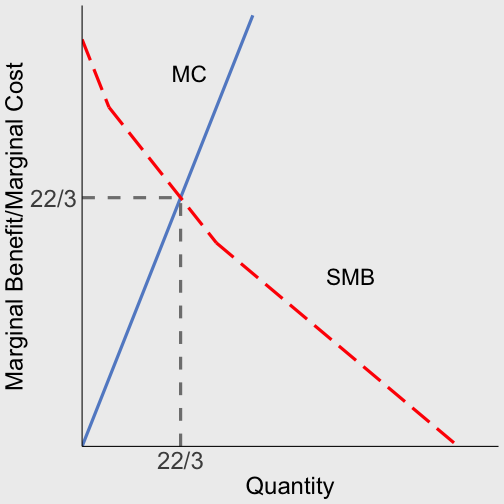
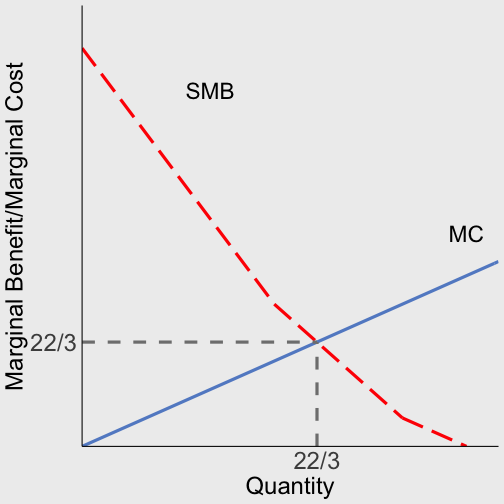
Fix public good example.:

diff --git a/slides/02-slides-market-failures.html b/slides/02-slides-market-failures.html
@@ -53,8 +53,8 @@ knitr::opts_chunk$set(echo = TRUE, fig.align="center")
 ```
 
 ```
-## Warning in style_panelset_tabs(...): The arguments to `syle_panelset()` changed in xaringanExtra 0.1.0. Please
-## refer to the documentation to update your slides.
+## Warning in style_panelset_tabs(...): The arguments to `syle_panelset()` changed in xaringanExtra 0.1.0. Please refer to the
+## documentation to update your slides.
 ```
 
 ---
@@ -1323,6 +1323,7 @@ Each has a different marginal benefit for water depth:
 - Boaters: MB = 12-Q
 - Anglers: MB = 10-Q
 - Hikers: MB = 6-Q
+- MC of provision: MC = Q
 
 ]
 
@@ -1341,9 +1342,9 @@ Each has a different marginal benefit for water depth:
 
 Now we need to aggregate them to get the .hi[social marginal benefit]
 
-We do so by adding up the demand curves horizontally:
+We do so by adding up the demand curves vertically:
 
-At each price: sum the Qs that are demanded
+At each Q, sum the MBs
 
 ]
 
@@ -1359,7 +1360,7 @@ At each price: sum the Qs that are demanded
 
 Why is the aggregate demand curve kinked?
 
-Because at each price, only certain groups are willing to pay to use the public good
+Because at each quantity/depth, only certain groups are willing to use the river
 
 ]
 
